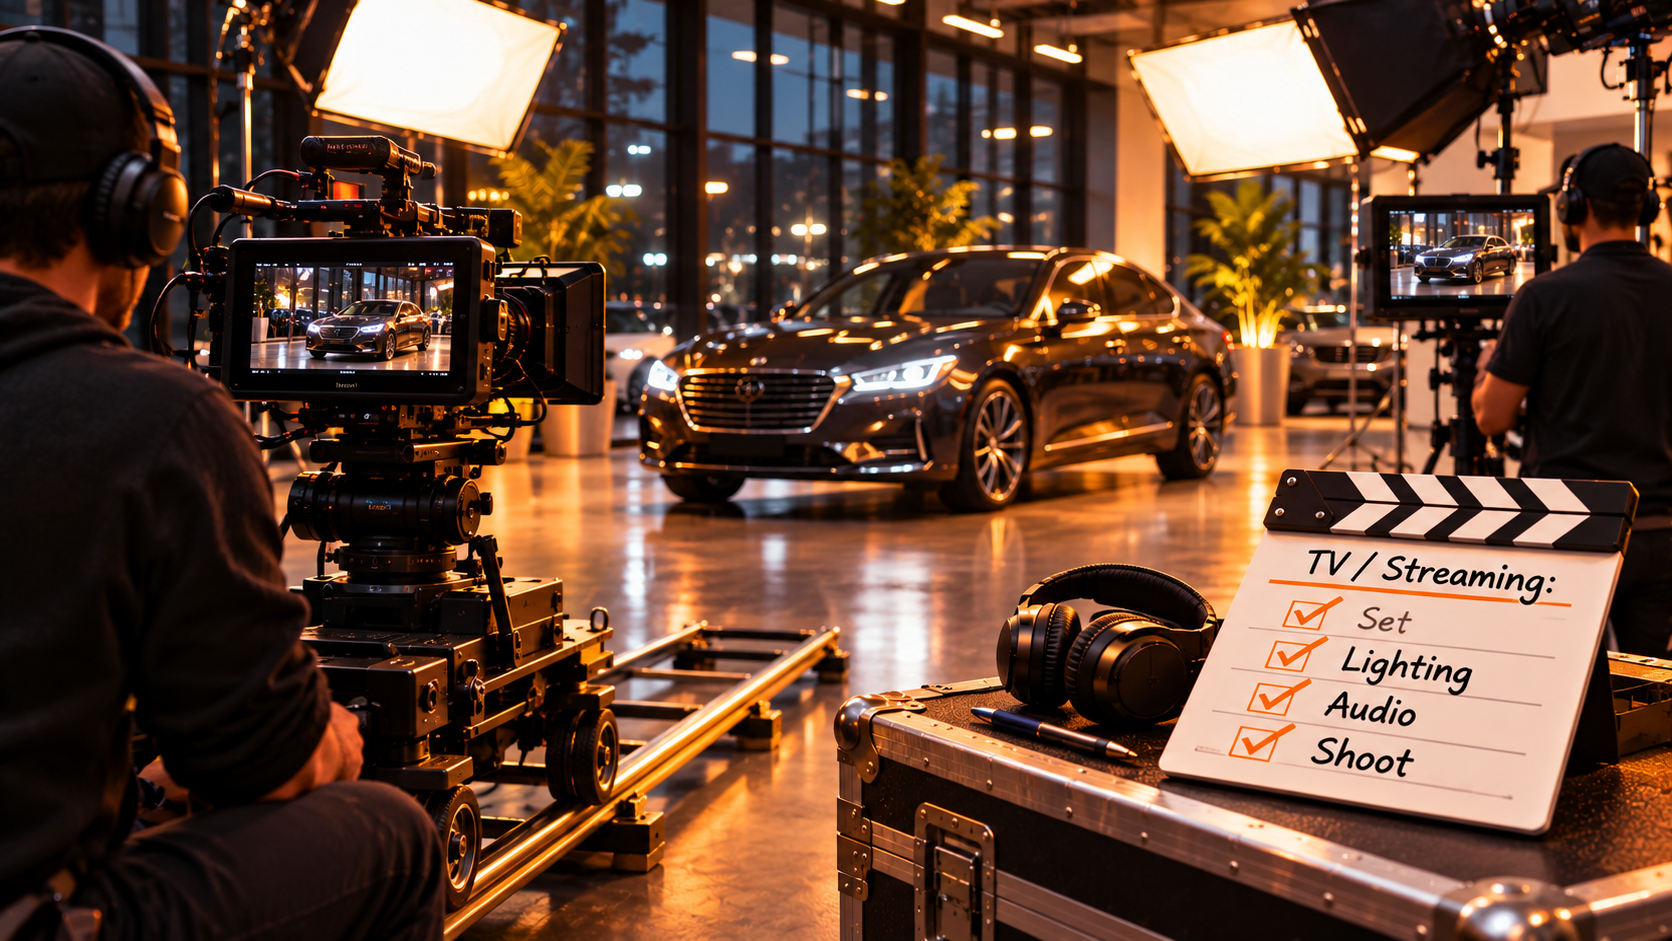
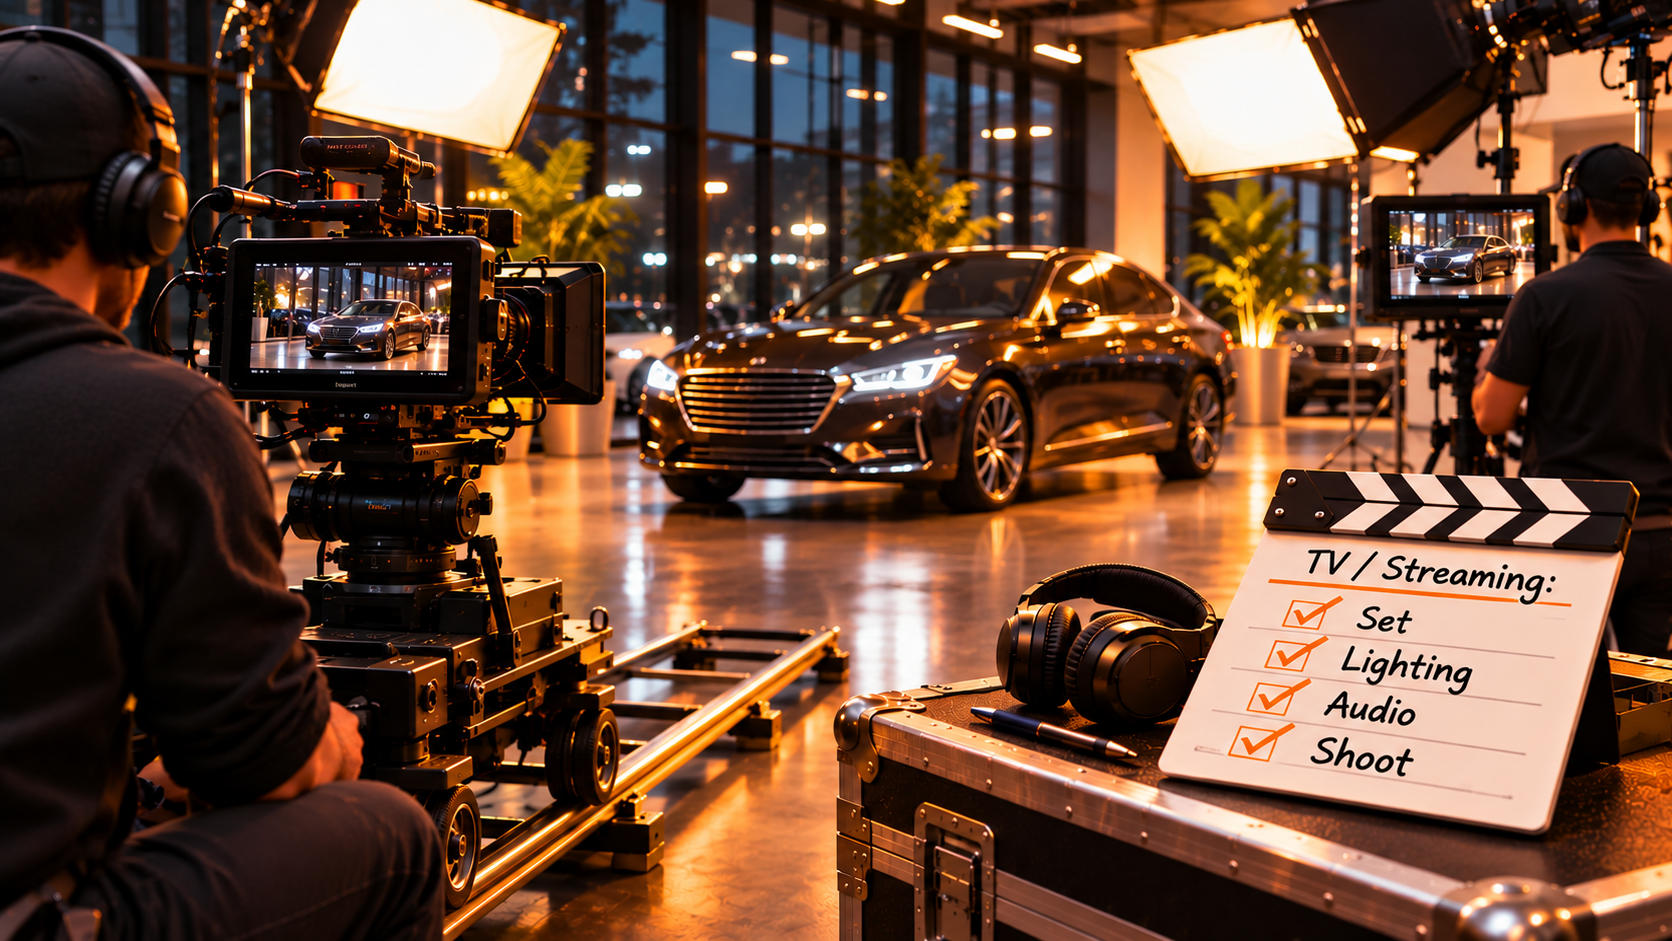
story-pass: replace tv-work-set with emblem-free grille edit
Claude-Session: https://claude.ai/code/session_01FnXwby9gJNH43FLVJiRKHN

diff --git a/design-inputs/story-pass/REVIEW.md b/design-inputs/story-pass/REVIEW.md
@@ -14,4 +14,4 @@ Remaining: 35 files, status RENDER_REQUIRED (see manifest-from-chatgpt.json). Le
 | rr-wrong-page.png | 1671×941 (16:9) | APPROVED | Ad copy exact ("Free brake inspection"); landing page shows no brake mention anywhere = the story; arrow + red X read instantly; generic phones, no logos, no faces. |
 | rr-slow-page.png | 1122×1402 (4:5) | APPROVED | Story reads instantly: grey skeleton, spinner, "Loading...", thumb drifting to back. URL edited to "example.com" (IANA-reserved); rest of frame unchanged. |
 | da-work-campaign.png | 1671×941 (16:9) | APPROVED (after 1 edit) | v1 rejected: AI-invented "Z BEST MEDIA" mug wordmark (off-brand) + gibberish micro-text. v2: plain mug, micro-text cleared. Checklist + notebook spelled right; car/home/skincare ad row; amber timeline. No hands (prompt asked) — acceptable. |
-| tv-work-set.png | 1672×941 (16:9) | APPROVED (condition) | v1 (talk-show set, "RONIQ" camera text) rejected as off-story. v2: commercial shoot in showroom, dolly track, 2 crew from behind (zoomed: no face), monitors show the car, clapper checklist spelled right; ties to tv-result-watching. Condition: small round emblem on grille, unidentifiable at 4x zoom; remove via edit if a ChatGPT use is spare. |
+| tv-work-set.png | 1672×941 (16:9) | APPROVED | v1 (talk-show set, "RONIQ" camera text) rejected as off-story. v2: commercial shoot in showroom, dolly track, 2 crew from behind (zoomed: no face), monitors show the car, clapper checklist spelled right; ties to tv-result-watching. v3 edit: grille emblem removed (verified at 4x); rest unchanged. |
